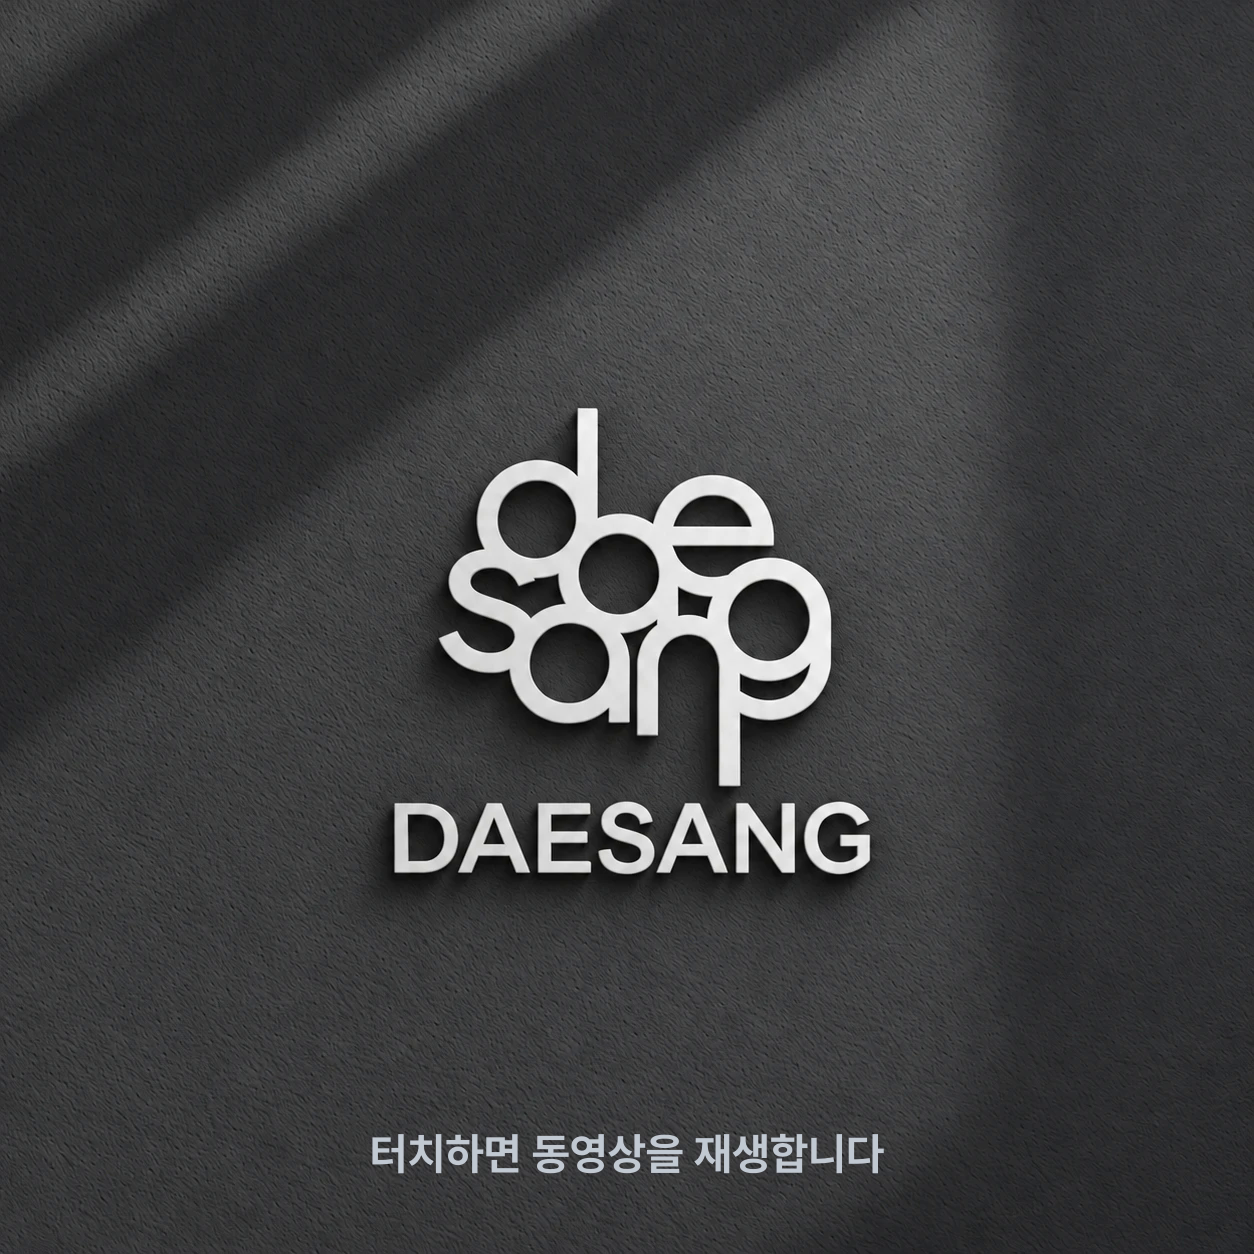
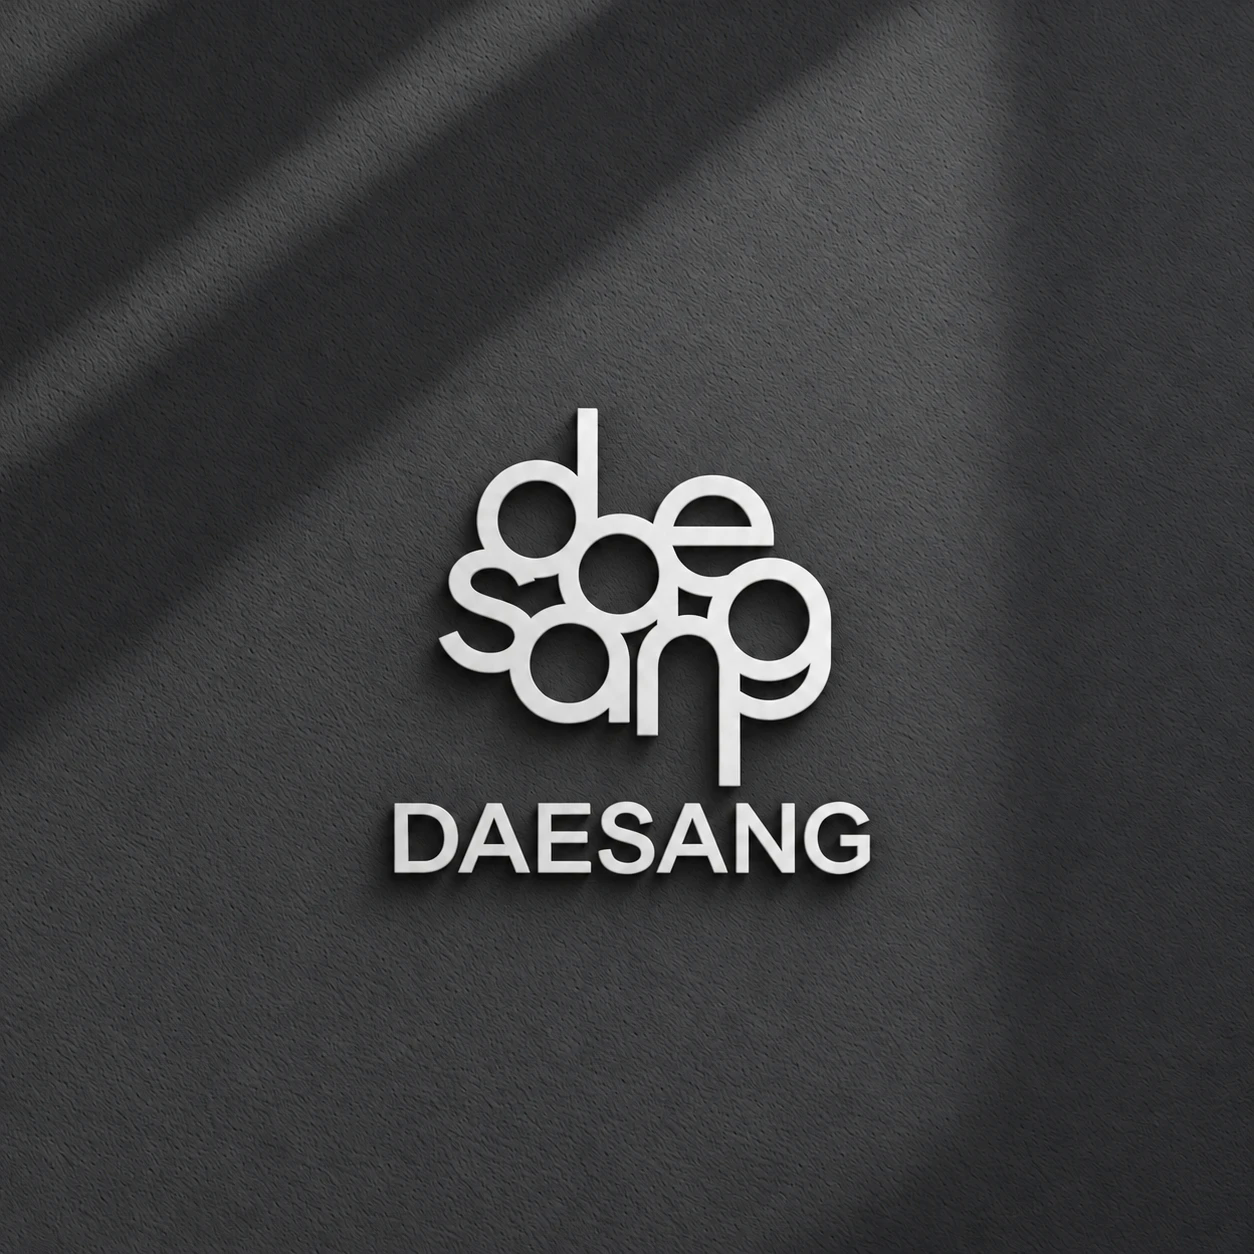
쉬는 화면: '터치하면 동영상을 재생합니다'를 그림에 박지 않고 페이지가 띄워 깜빡이게 (1.10.11_p1)
내장 white/dark 그림은 글자 없는 원본으로. 안내 글은 내장·직접 올린 그림 모두 아래에 1.6초 주기로 깜빡임.
화면보호기만 바뀐 것이라 APK 없이 PC [화면보호기 화면 TV 로 보내기]로 배포

Claude-Session: https://claude.ai/code/session_01JHemxY7xXasiHpCqZYofss

Changed region(s): [[0.2799, 0.9019, 0.7153, 0.933]]

diff --git a/app/src/main/assets/screensaver/ss.css b/app/src/main/assets/screensaver/ss.css
@@ -197,7 +197,8 @@ html.dark .edbar button.save { background: #2f7be6; color: #fff; }
 @keyframes restLight { from { transform: translateX(-4%) } to { transform: translateX(4%) } }
 #ssRest .lg { position: relative; width: 46%; max-width: 420px; max-height: 40%; object-fit: contain; filter: drop-shadow(0 10px 22px rgba(20, 30, 45, .22)); }
 #ssRest .cap { position: absolute; left: 0; right: 0; bottom: 38px; text-align: center; font-size: 27px; font-weight: 700; color: #5d6b7a; letter-spacing: .5px;
-               animation: blink 2.8s ease-in-out infinite; }
+               animation: restBlink 1.6s ease-in-out infinite; }
+@keyframes restBlink { 0%, 100% { opacity: 1; } 50% { opacity: .15; } }
 html.dark #ssRest { background: #11161c; }
 html.dark #ssRest .paper { background:
   radial-gradient(120% 90% at 50% 0%, rgba(255,255,255,.08), rgba(255,255,255,0) 60%),
@@ -214,4 +215,3 @@ html.dark #ssRest .cap { color: #9aa8b8; }
 html.dark #ssRest.custom .paper { background: #11161c; }
 #ssRest .cap { z-index: 2; text-shadow: 0 1px 8px rgba(255,255,255,.8); }
 html.dark #ssRest .cap { text-shadow: 0 1px 8px rgba(0,0,0,.8); }
-#ssRest.builtin .cap { display: none; }

diff --git a/pc/tvrelay/screensaver/ss.css b/pc/tvrelay/screensaver/ss.css
@@ -197,7 +197,8 @@ html.dark .edbar button.save { background: #2f7be6; color: #fff; }
 @keyframes restLight { from { transform: translateX(-4%) } to { transform: translateX(4%) } }
 #ssRest .lg { position: relative; width: 46%; max-width: 420px; max-height: 40%; object-fit: contain; filter: drop-shadow(0 10px 22px rgba(20, 30, 45, .22)); }
 #ssRest .cap { position: absolute; left: 0; right: 0; bottom: 38px; text-align: center; font-size: 27px; font-weight: 700; color: #5d6b7a; letter-spacing: .5px;
-               animation: blink 2.8s ease-in-out infinite; }
+               animation: restBlink 1.6s ease-in-out infinite; }
+@keyframes restBlink { 0%, 100% { opacity: 1; } 50% { opacity: .15; } }
 html.dark #ssRest { background: #11161c; }
 html.dark #ssRest .paper { background:
   radial-gradient(120% 90% at 50% 0%, rgba(255,255,255,.08), rgba(255,255,255,0) 60%),
@@ -214,4 +215,3 @@ html.dark #ssRest .cap { color: #9aa8b8; }
 html.dark #ssRest.custom .paper { background: #11161c; }
 #ssRest .cap { z-index: 2; text-shadow: 0 1px 8px rgba(255,255,255,.8); }
 html.dark #ssRest .cap { text-shadow: 0 1px 8px rgba(0,0,0,.8); }
-#ssRest.builtin .cap { display: none; }

diff --git a/app/src/main/assets/screensaver/ss.js b/app/src/main/assets/screensaver/ss.js
@@ -538,7 +538,7 @@
         img.className = 'pic'; img.style.objectFit = fit;
         L.classList.add('custom'); L.insertBefore(img, L.querySelector('.cap'));
       };
-      img.onerror = function () { if (tried) return; tried = true; L.classList.add('builtin'); img.src = name; };   // 내장 기본 그림 (안내 글이 그림에 들어 있음)
+      img.onerror = function () { if (tried) return; tried = true; img.src = name; };   // 내장 기본 그림 (DAESANG)
       img.src = BASE + name + '?t=' + Math.floor(Date.now() / 60000);
     });
   };

diff --git a/pc/tvrelay/screensaver/ss.js b/pc/tvrelay/screensaver/ss.js
@@ -538,7 +538,7 @@
         img.className = 'pic'; img.style.objectFit = fit;
         L.classList.add('custom'); L.insertBefore(img, L.querySelector('.cap'));
       };
-      img.onerror = function () { if (tried) return; tried = true; L.classList.add('builtin'); img.src = name; };   // 내장 기본 그림 (안내 글이 그림에 들어 있음)
+      img.onerror = function () { if (tried) return; tried = true; img.src = name; };   // 내장 기본 그림 (DAESANG)
       img.src = BASE + name + '?t=' + Math.floor(Date.now() / 60000);
     });
   };
